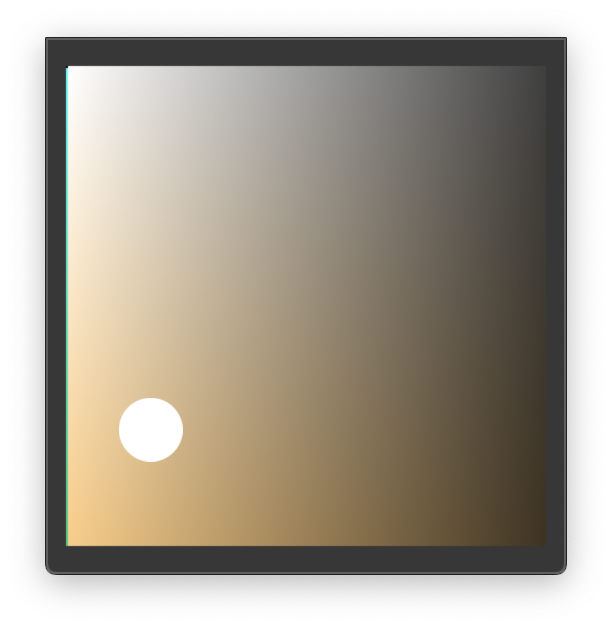
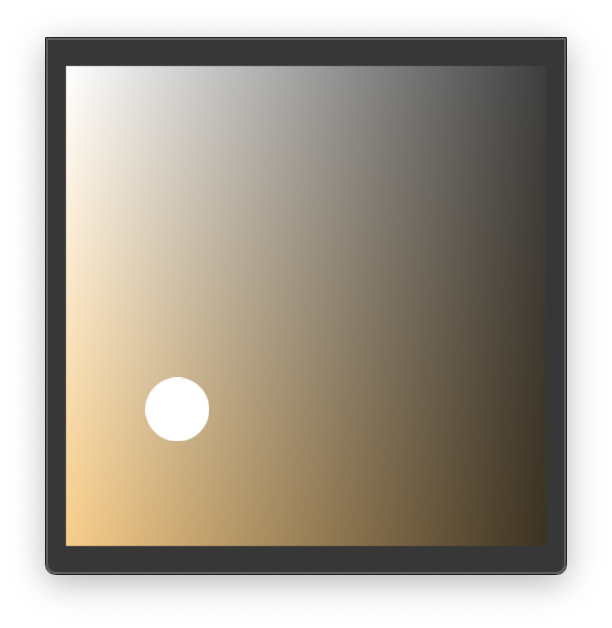
:framed_picture:

Changed region(s): [[0.0931, 0.121, 0.1242, 0.8471], [0.1863, 0.5748, 0.3415, 0.7564]]

diff --git a/Warmth/Sources/NightShiftControl.m b/Warmth/Sources/NightShiftControl.m
@@ -81,9 +81,9 @@
                 v3 pixel = hsv_shade(&tint, &shade);
                 
                 v3 rgb = hsv_to_rgb(&pixel);
-                uint32_t r = rgb.x * 256;
-                uint32_t g = rgb.y * 256;
-                uint32_t b = rgb.z * 256;
+                uint32_t r = (uint8_t)(rgb.x * 255);
+                uint32_t g = (uint8_t)(rgb.y * 255);
+                uint32_t b = (uint8_t)(rgb.z * 255);
                 data[j*width + i] = (b << 24) | (g << 16) | (r << 8);
             }
         }
